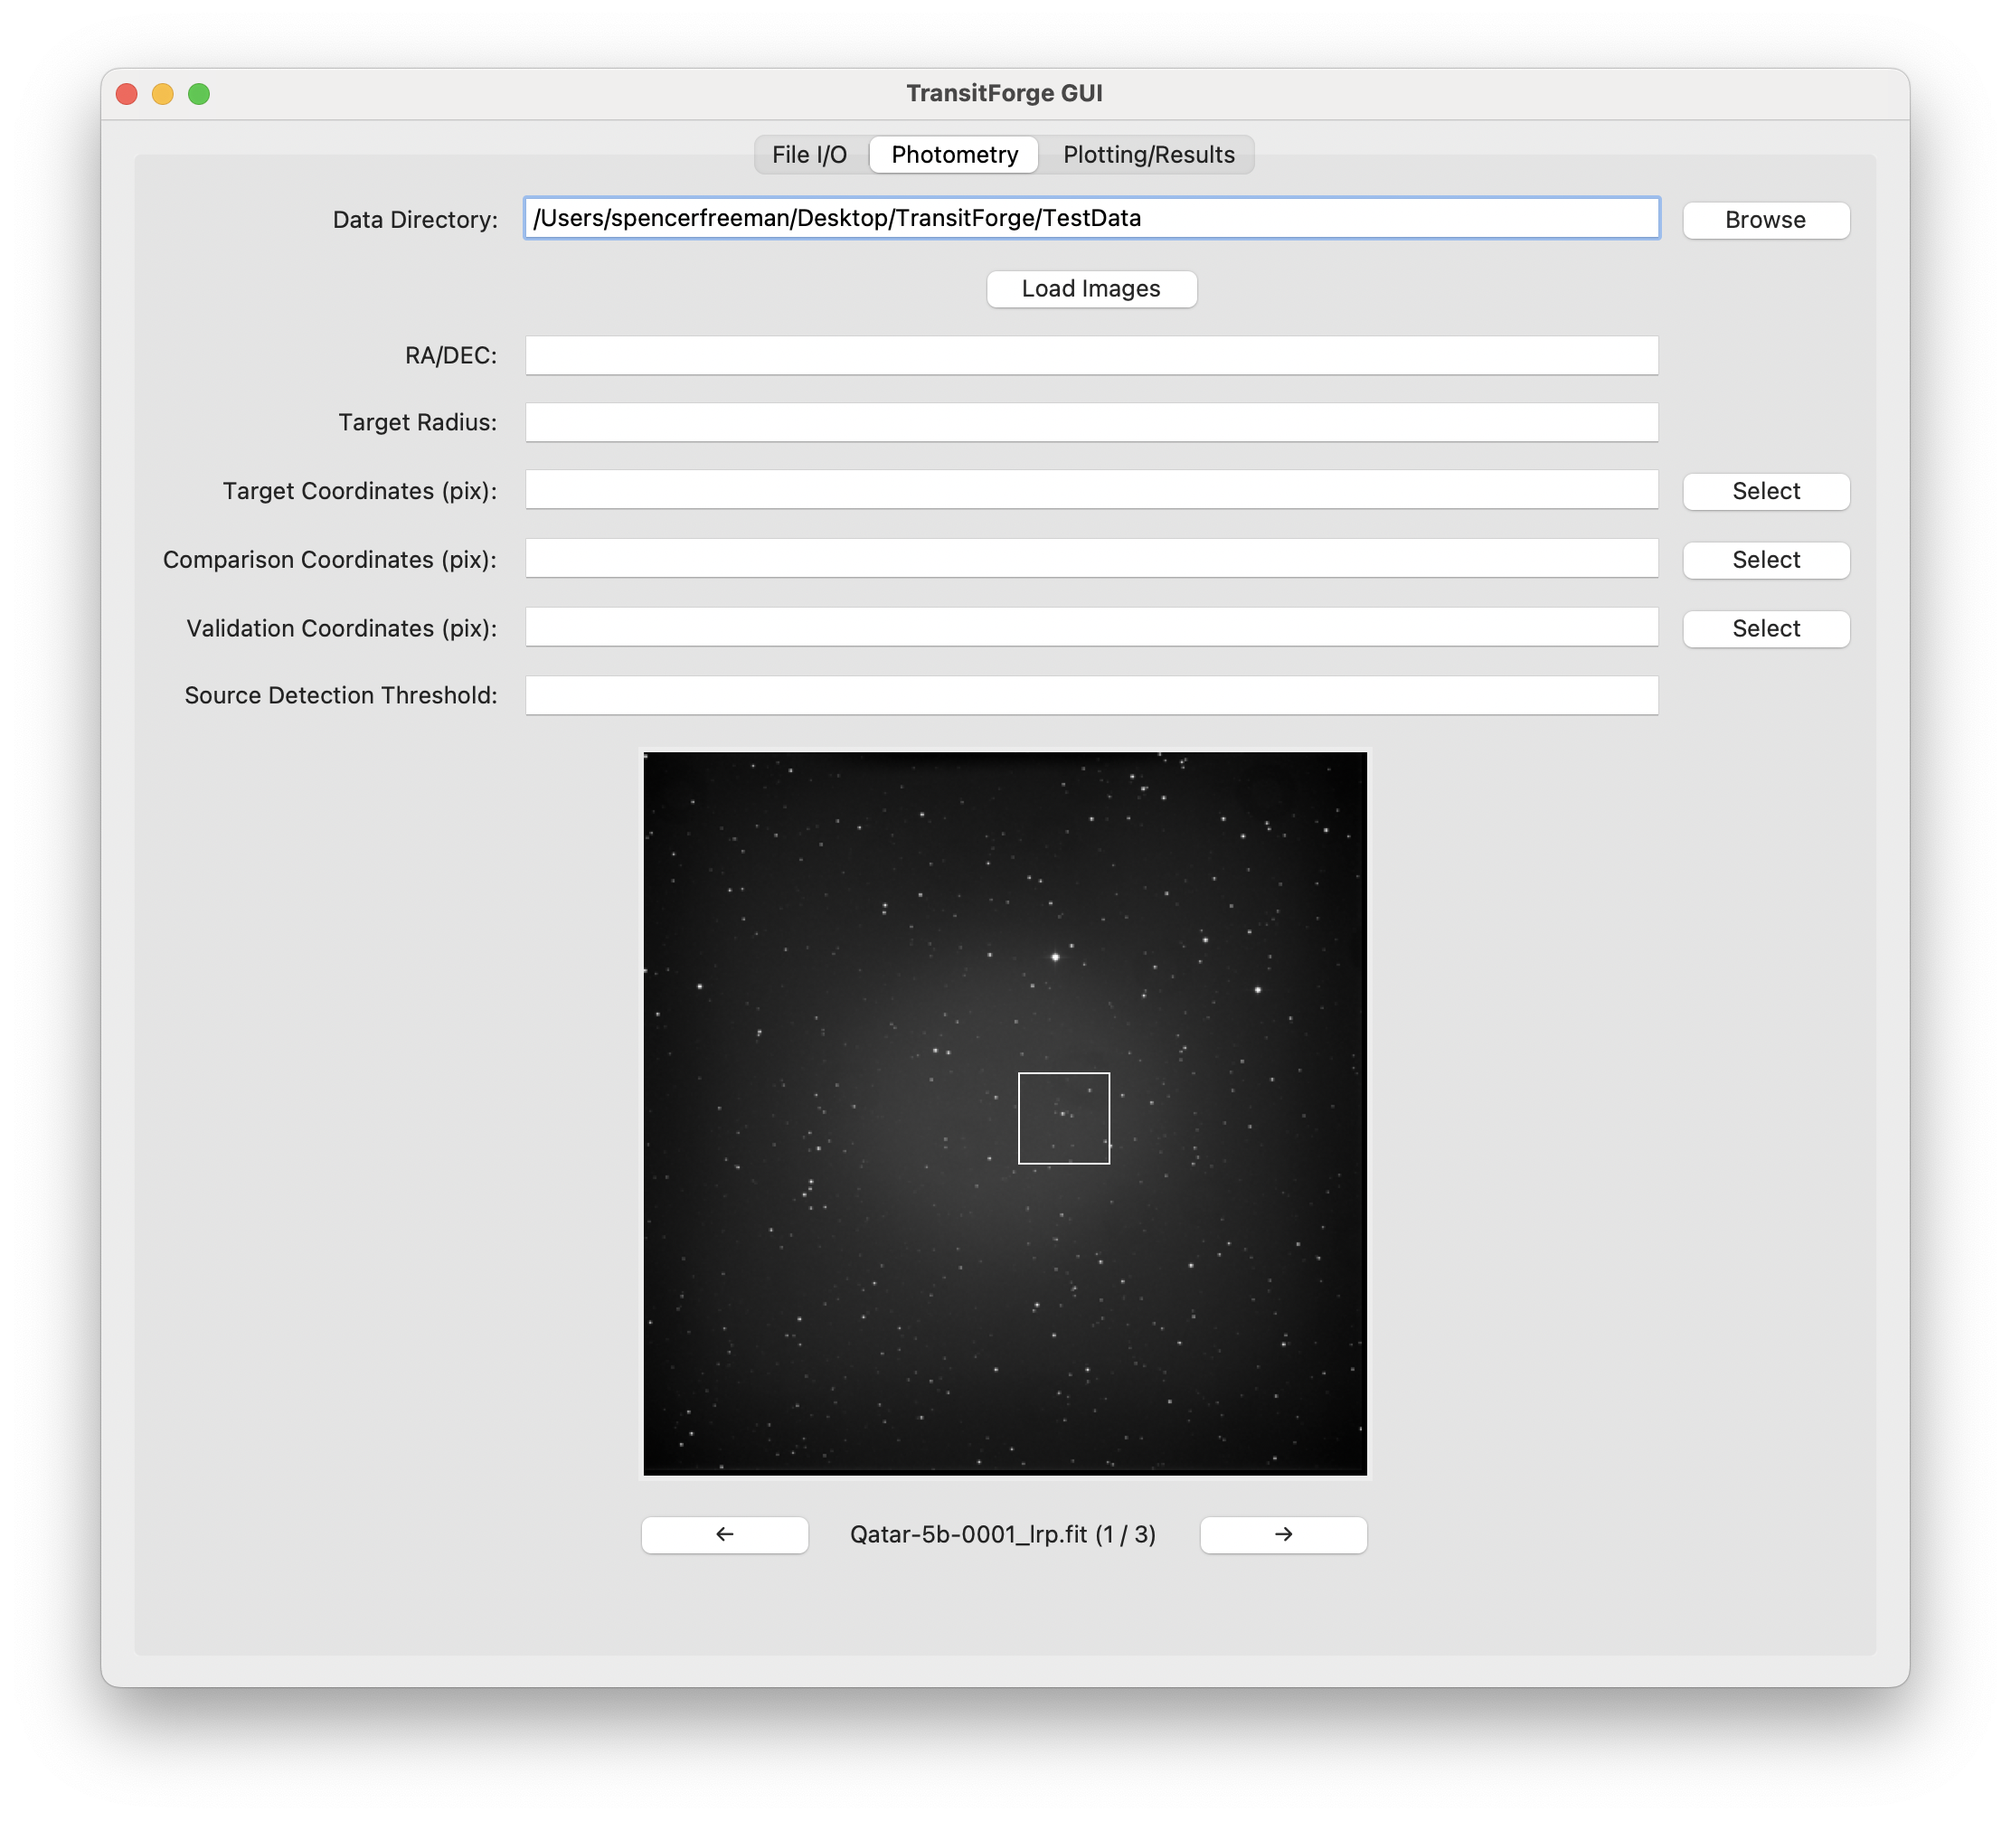
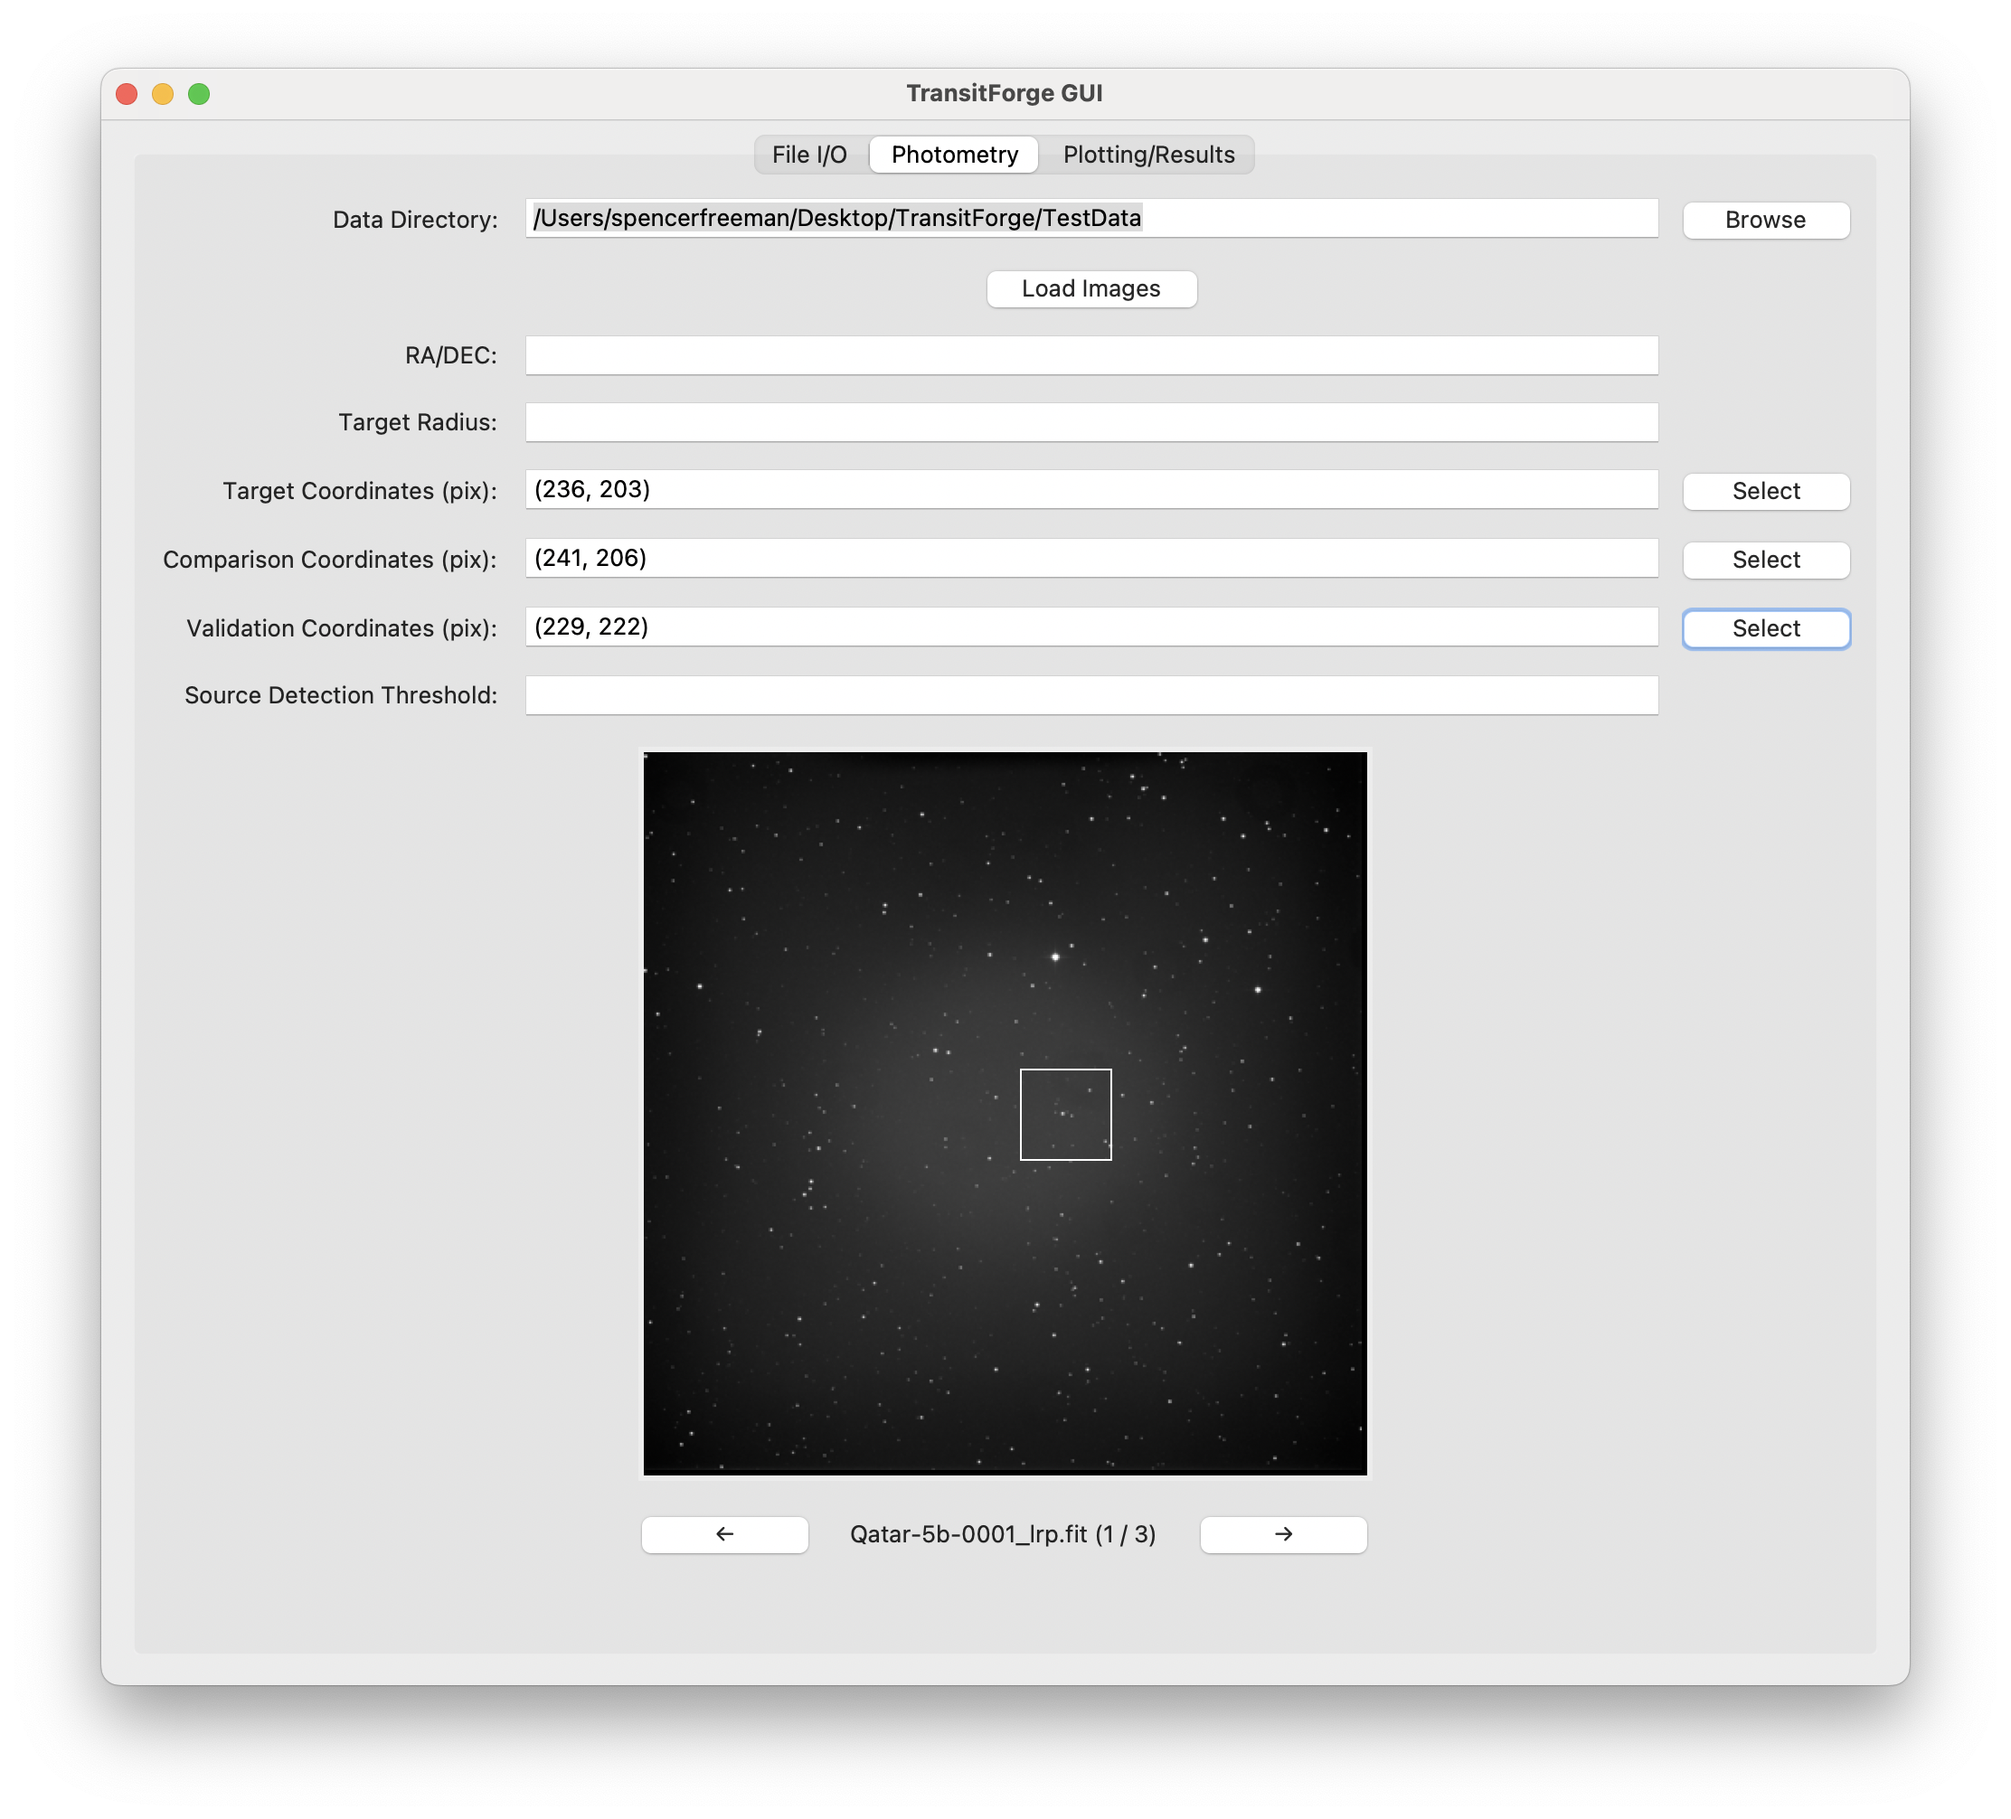
coordinates (not transformed to original dimensions are now autofilled on click into bar.

diff --git a/gui/zoom.py b/gui/zoom.py
@@ -5,7 +5,7 @@ import numpy as np
 from gui.gui import ImageLoader
 
 class ZoomViewer:
-    def __init__(self, canvas, image, on_select, logger, zoom_box=50, zoom_factor=4, selection_mode="Target Coordinates (pix)"):
+    def __init__(self, canvas, image, on_select, logger, input_dict, zoom_box=50, zoom_factor=4, selection_mode="Target Coordinates (pix)"):
         self.canvas = canvas
         self.image = image
         self.on_select = on_select
@@ -27,11 +27,17 @@ class ZoomViewer:
         #all of the coordinates needed to run pipeline, these are 400x400 coords, must map back to the original size. 
         #default mode is select target, then one can select validation and others within the 400x400 subsection. 
         self.selection_mode = selection_mode
+        self.coordinates = {
+            "Target Coordinates (pix)" : (None, None), 
+            "Comparison Coordinates (pix)" : (None, None), 
+            "Validation Coordinates (pix)" : (None, None)
+        }
         self.cutout_x, self.cutout_y = None, None
         self.target_x, self.target_y = None, None
         self.comparison_x, self.comparison_y = None, None
         self.validation_x, self.validation_y = None, None
         self.logger = logger
+        self.input_dict = input_dict
 
     def update_zoom(self, event):
         x, y = event.x, event.y
@@ -49,32 +55,43 @@ class ZoomViewer:
 
     def store_click(self, event):
         if self.selection_mode == "Target Coordinates (pix)":
-            self.cutout_x, self.target_x = event.x, event.y
-            self.cutout_y, self.target_y = event.y, event.y
-            self.on_select(self.cutout_x, self.cutout_y)
+            self.coordinates[self.selection_mode] = (event.x, event.y) 
+            self.on_select(self.coordinates[self.selection_mode])
             #we must reset non-target selections, since an adjustment of target zoom area can lead to invalid previous selections (comp/vali)
             self.reset_non_target()
-        elif self.is_valid_event(event.x, event.y):
-            if self.selection_mode == "Comparison Coordinates (pix)":
-                self.comparison_x = event.x
-                self.comparison_y = event.y
-            elif self.selection_mode == "Comparison Coordinates (pix)":
-                self.validation_x = event.x
-                self.validation_y = event.y 
+            entry = self.input_dict[self.selection_mode]
+            entry.delete(0, END)
+            entry.insert(0, f"{self.coordinates[self.selection_mode]}")
+        if self.selection_mode == "Comparison Coordinates (pix)":
+            if self.is_valid_event(event.x, event.y):
+                self.coordinates[self.selection_mode] = (event.x, event.y)
+                entry = self.input_dict[self.selection_mode]
+                entry.delete(0, END)
+                entry.insert(0, f"{self.coordinates[self.selection_mode]}")
+        elif self.selection_mode == "Validation Coordinates (pix)":
+            if self.is_valid_event(event.x, event.y):
+                self.coordinates[self.selection_mode] = (event.x, event.y)
+                entry = self.input_dict[self.selection_mode]
+                entry.delete(0, END)
+                entry.insert(0, f"{self.coordinates[self.selection_mode]}")
         
-        log_message = f"PHOTOMETRY LOGGING: \nMode: {self.selection_mode}, \nMouse clicked at (x={self.cutout_x}, y={self.cutout_y}), \nValid Selection: {self.is_valid_event(event.x, event.y)}\n"
+        log_message = f"PHOTOMETRY LOGGING: \nMode: {self.selection_mode}, \nMouse clicked at (x={event.x}, y={event.y}), \nValid Selection: {self.is_valid_event(event.x, event.y)}\n"
         self.logger.insert(END, log_message)
         
     def is_valid_event(self, event_x, event_y) -> bool:
-        return (event_x > self.cutout_x - self.zoom_box//2 and event_x < self.cutout_x  + self.zoom_box//2 and 
-                event_y > self.cutout_y - self.zoom_box//2 and event_y < self.cutout_y  + self.zoom_box//2)
+        zoom_center = self.coordinates["Target Coordinates (pix)"]
+        return (event_x > zoom_center[0] - self.zoom_box//2 and event_x < zoom_center[0]  + self.zoom_box//2 and 
+                event_y > zoom_center[1] - self.zoom_box//2 and event_y < zoom_center[1]  + self.zoom_box//2)
         
     def set_mode(self, mode_label: str): 
         self.selection_mode = mode_label 
     
     def reset_non_target(self):
-        self.comparison_x, self.comparison_y = None, None
-        self.validation_x, self.validation_y = None, None
+        self.coordinates["Comparison Coordinates (pix)"] = (None, None)
+        self.coordinates["Validation Coordinates (pix)"] = (None, None)
+        self.input_dict["Comparison Coordinates (pix)"].delete(0, END)
+        self.input_dict["Validation Coordinates (pix)"].delete(0, END)
+
 
 if __name__ == '__main__':
     root = Tk()

diff --git a/gui/gui.py b/gui/gui.py
@@ -173,17 +173,17 @@ class AstroPipelineGUI(ttk.Frame):
         if self.frames and self.frames[0][1] != "No Files Loaded":
             current_image = self.frames[self.current_frame_index][2]
 
-            def on_select(x, y):
-                self.zoom_window.cutout_x = x
-                self.zoom_window.cutout_y = y
+            def on_select(coordinates: tuple):
+                self.zoom_window.cutout_x = coordinates[0]
+                self.zoom_window.cutout_y = coordinates[1]
                 self.draw_subsection()
                 
             #determine if zoom_window has been initialized and manage behavior based on outcome.
             if not hasattr(self, "zoom_window") or not self.zoom_window: 
-                self.zoom_window = ZoomViewer(self.image_canvas, current_image, on_select, logger=self.log_text, )
+                self.zoom_window = ZoomViewer(self.image_canvas, current_image, on_select, logger=self.log_text, input_dict=self.entries)
             else:
                 self.zoom_window.image = current_image
-            print(mode_label)
+            print([value.get() if type(value) != tuple else value for value in self.entries.values()])
             self.zoom_window.set_mode(mode_label)
             
     def draw_subsection(self):
